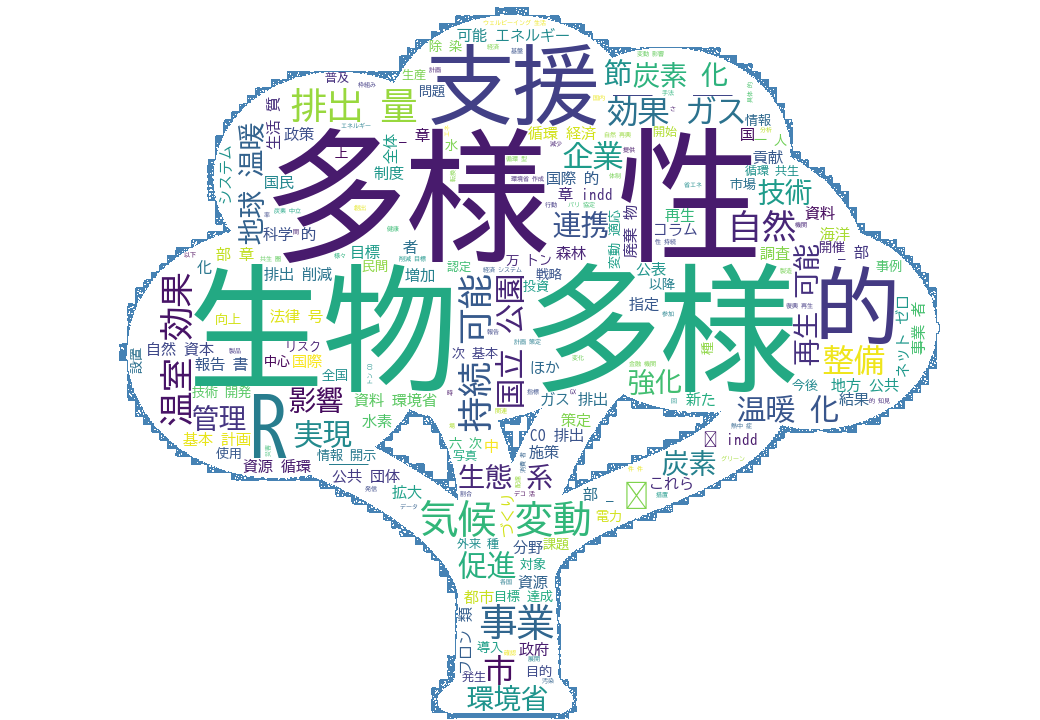
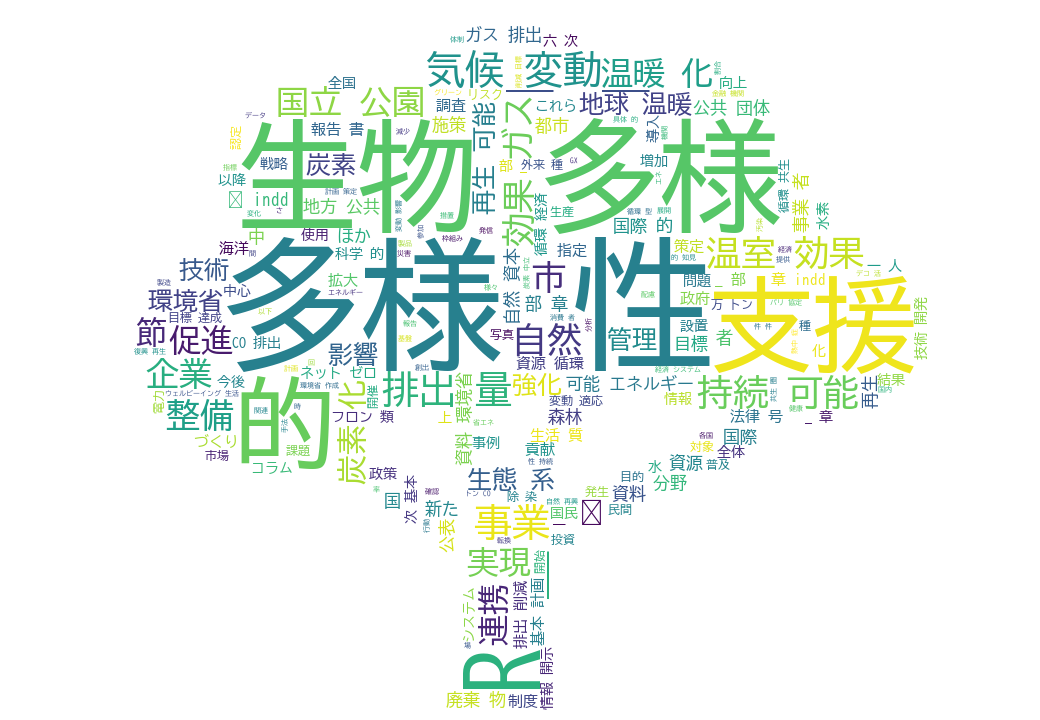
輪郭線を削除してノイズを除去

Changed region(s): [[0.0923, 0.0, 0.9231, 1.0]]

diff --git a/main.py b/main.py
@@ -59,9 +59,9 @@ print("画像を生成しています...")
 wc = WordCloud(
     background_color="white",
     font_path=FONT_PATH,
-    mask=mask_array,            # 型抜き指定
-    contour_width=1,            # 輪郭線の太さ
-    contour_color='steelblue',  # 輪郭線の色
+    mask=mask_array,
+    contour_width=0,            # ←【修正】ここを「0」にするだけだ！
+    # contour_color='steelblue', # ← 太さが0なら色指定も意味がないのでコメントアウトして良い
     colormap="viridis",         # 色使い
     stopwords=set(STOP_WORDS)
 )
